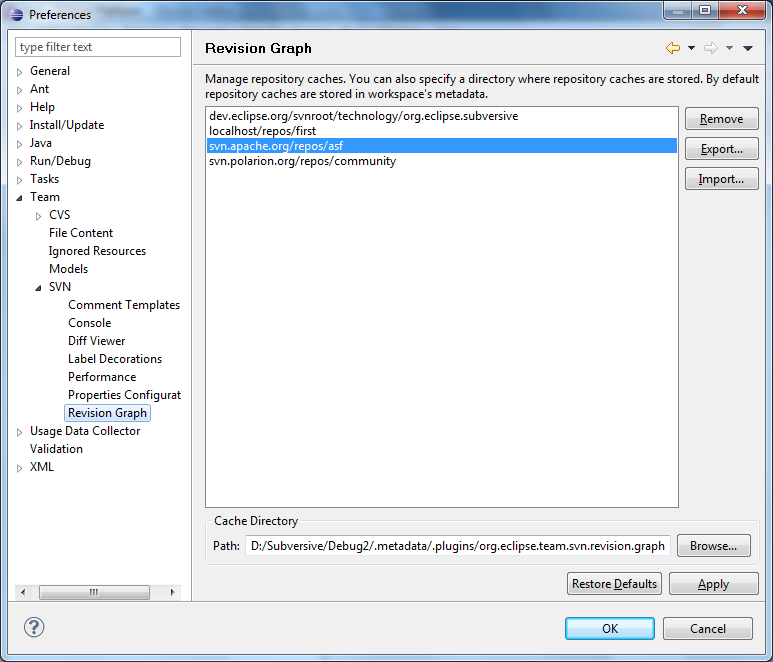
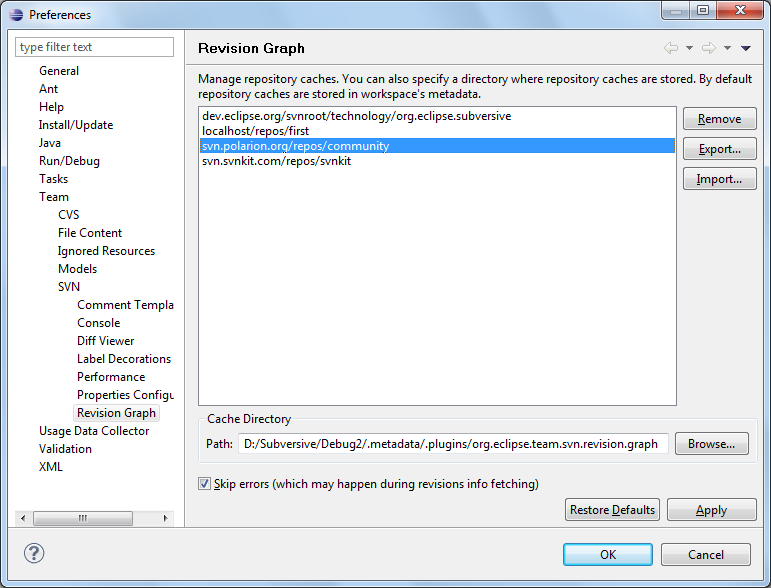
NEW - bug 317802: Add documentation about Revision Graph options dialog https://bugs.eclipse.org/bugs/show_bug.cgi?id=317802

Changed region(s): [[0.0, 0.0, 1.0, 1.0]]

diff --git a/org.eclipse.team.svn.help/preferences/pref_graph.html b/org.eclipse.team.svn.help/preferences/pref_graph.html
@@ -26,7 +26,20 @@
 		</a> properties page.</p>	
 	<p>On this page you can manage repository caches. You can also specify a directory where repository caches are stored. By default repository caches are stored in workspace's metadata.</p>		
 	This is how <i>'Revision Graph'</i> properties page looks like:
-	<br/><br/><img border="0" src="../images/pref_graph.png" alt="Revision Graph"/>
+	<br/><br/><img border="0" src="../images/pref_graph.png" alt="Revision Graph"/>		
+	<br/><br/>
+	<table cellpadding="5" cellspacing="0" border="1" width="100%">
+		<tr>
+			<td class="header" align ="center" valign="center">Option</td>
+			<td class="header" align ="center" valign="center">Description</td>
+			<td class="header" align ="center" valign="center">Default</td>
+		</tr>
+		<tr>
+			<td align ="center" valign="center">Skip errors</td>
+			<td align ="center" valign="center">During fetching revisions information from SVN repository there may happen SVN errors, this option specifies whether to continue or break processing if such errors happen. There are 2 types of errors: random and permanent. Permanent errors may happen because of some problems on server e.g. corrupted data. If random error happens on some revision then Subversive makes an attempt to retry fetching its data, in case of permanent error Subversive skips this revision.</td>
+			<td align ="center" valign="center">Enabled</td>
+		</tr>
+	</table>
 	<br/>
 	<img border="0" src="../images/rel_tops.png" alt="Related topics"/>
 	<br/>

diff --git a/org.eclipse.team.svn.help/teamSupport/revision_graph.html b/org.eclipse.team.svn.help/teamSupport/revision_graph.html
@@ -40,6 +40,26 @@
 	<br/><br/>
 	<img border = "0" src="../images/graph_dialog.png" alt="SVN Revision Graph Options"/>
 	
+	<br/><br/>
+	<table cellpadding="5" cellspacing="0" border="1" width="100%">
+		<tr>
+			<td class="header" align ="center" valign="center">Option</td>
+			<td class="header" align ="center" valign="center">Description</td>
+			<td class="header" align ="center" valign="center">Default</td>
+		</tr>
+		<tr>
+			<td align ="center" valign="center">Show all revisions</td>
+			<td align ="center" valign="center">Specifies whether to show all revisions or filter them on predefined default criterions. This option can be useful for large graphs.</td>
+			<td align ="center" valign="center">Disabled</td>
+		</tr>
+		<tr>
+			<td align ="center" valign="center">Show merge info</td>
+			<td align ="center" valign="center">Specifies whether to fetch from repository merge information and show it on revision graph. It's available only for SVN 1.5 and higher clients. Note that despite this option is enabled there can be servers which don't support merge information.</td>
+			<td align ="center" valign="center">Enabled</td>
+		</tr>
+	</table>
+	<br/>	
+	
 	<p>This is how <i>'SVN Revision Graph'</i> looks like:</p>
 	<img border = "0" src="../images/svn_revision_graph.png" alt="SVN Revision Graph"/>
 	
